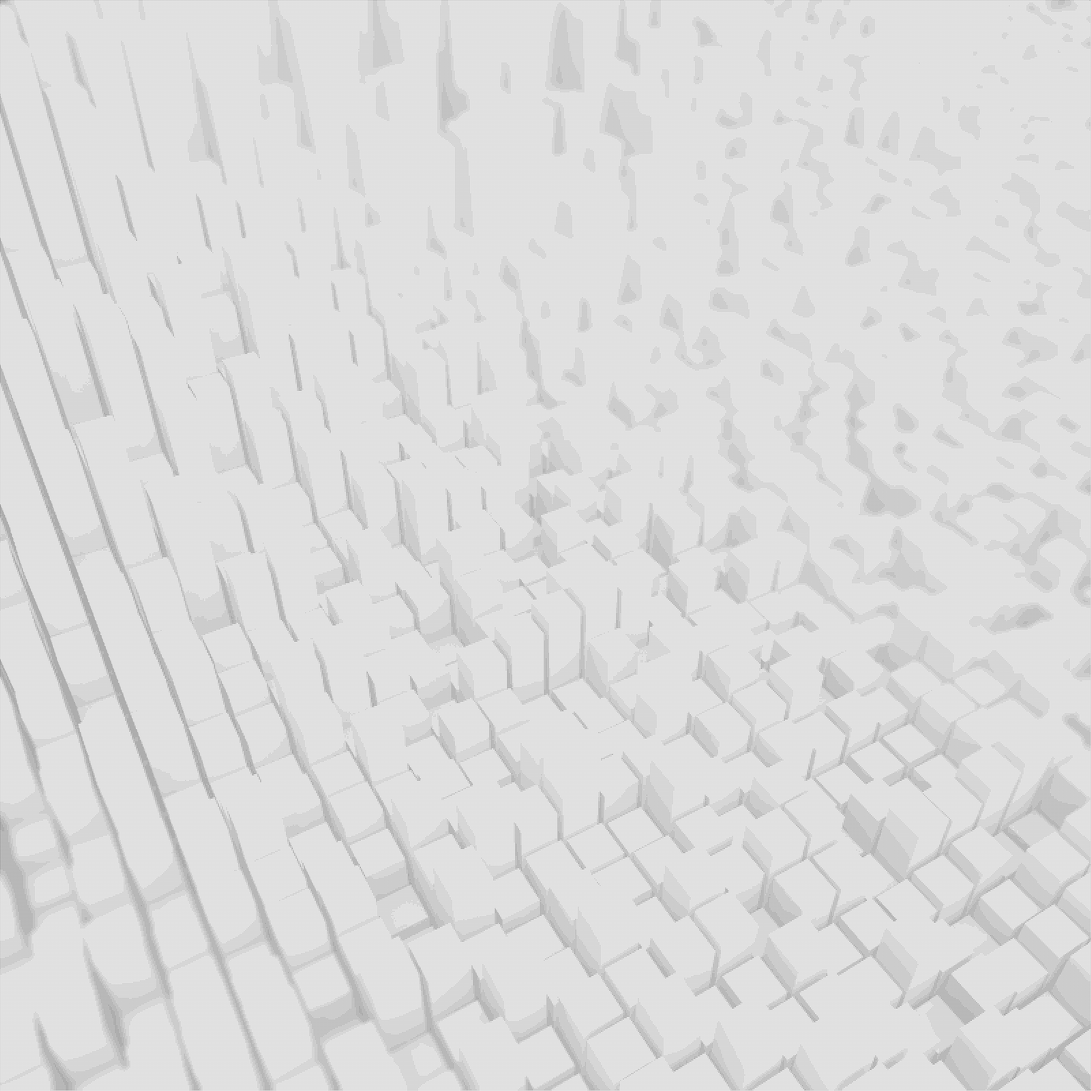
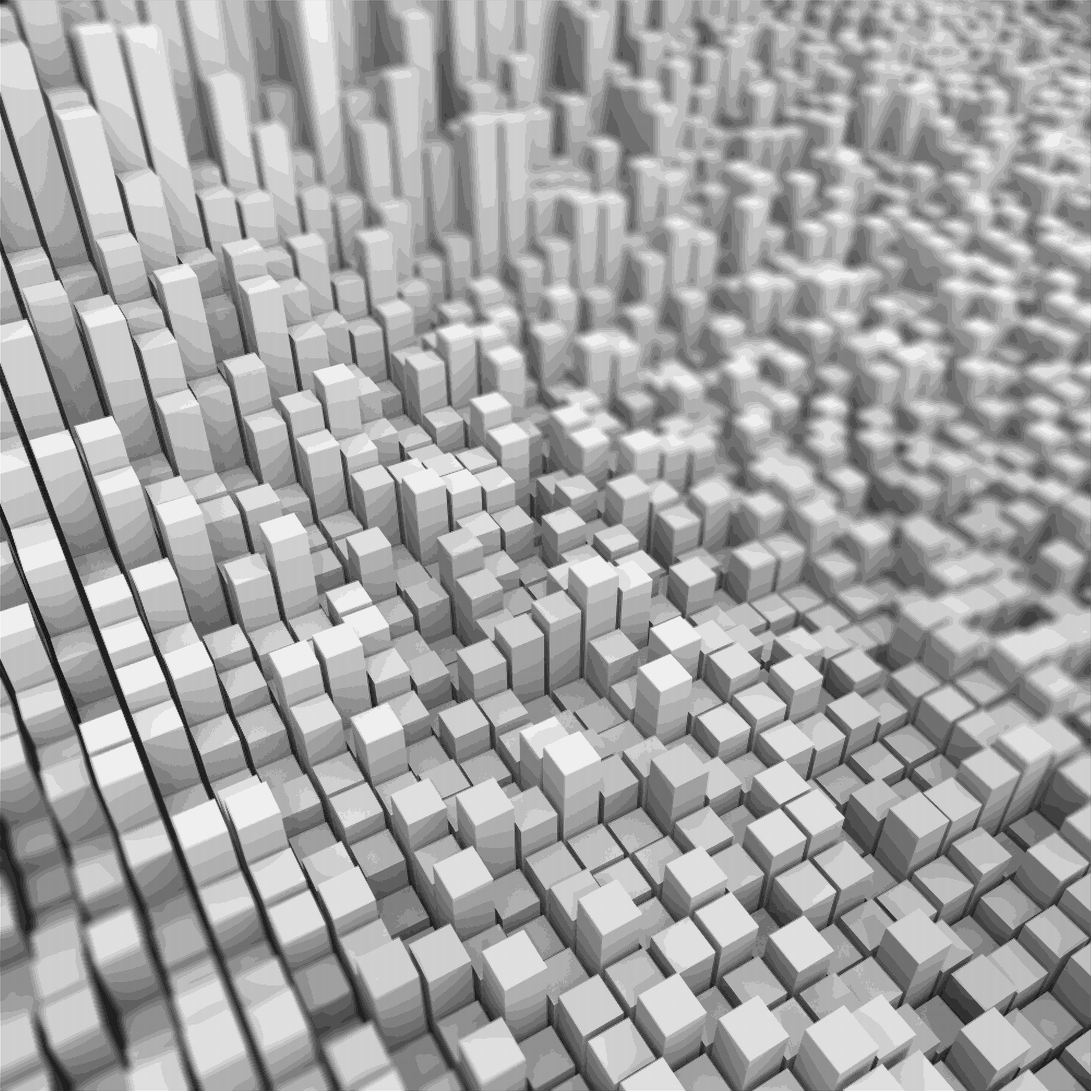
super réparation

diff --git a/src/Trame.java b/src/Trame.java
@@ -31,12 +31,25 @@ public class Trame {
 
 		int w = 0xFFFFFF;
 		int b = 0;
-		for (int i = 0; i < width * height; i++)
+		for (int i = 0; i < width * height; i++) {
 			for (int j = 0; j < width * height; j++) {
-				ret[i][j] = matrix[j] <= i ? w : b;
+				ret[i][j] = matrix[j] > i ? b : w;
 			}
+		}
 
 		return ret;
+	}
+
+	void printPattern() {
+		for(int i = 0; i < patterns.length; ++i) {
+			for(int j = 0; j < width * height; ++j) {
+				System.out.print(patterns[i][j] == 0 ? "b " : "w ");
+				if((j + 1) % width == 0) {
+					System.out.print("\n");
+				}
+			}
+			System.out.println("---------------------------------------------------\n");
+		}
 	}
 
 	BufferedImage traming(BufferedImage src) {
@@ -48,6 +61,8 @@ public class Trame {
 		int t_x = image.getWidth() / width;
 		int t_y = image.getHeight() / height;
 
+		//printPattern();
+
 		for (int i = 0; i < t_x; i++)
 			for (int j = 0; j < t_y; j++) {
 				int tot = 0;
@@ -55,8 +70,7 @@ public class Trame {
 					for (int y = 0; y < height; y++) {
 						tot += image.getRGB(width * i + x, height * j + y) & 0xFF;
 					}
-				image.setRGB(width * i, height * j, width, height, patterns[tot / (height * width * width * height)], 0,
-						width);
+				image.setRGB(width * i, height * j, width, height, patterns[tot / (height * width * width * height)], 0, width);
 			}
 
 		return image;
@@ -65,10 +79,10 @@ public class Trame {
 	public static int[] gen_matrix(int centre) {
 		// centre correspond à l'indice du centre
 		int m[] = {
-				15, 4, 8, 12,
-				11, 0, 1, 5,
-				7, 2, 3, 9,
-				14, 10, 6, 13
+			15, 4, 8, 12,
+			11, 0, 1, 5,
+			7, 2, 3, 9,
+			14, 10, 6, 13
 		};
 		int res[] = new int[16];
 		int decalage = (centre - 5 + 16) % 16;
@@ -96,31 +110,26 @@ public class Trame {
 		}
 	}
 
-	public static int size2(int[][] t) {
-		int res = 0;
-		for (int i = 0; i < t.length; i++) {
-			res += t[i].length;
-		}
-		return res;
-	}
+	public static int[] flatten(int[][] array2D) {
+        int totalLength = 0;
+        for (int[] row : array2D) {
+            totalLength += row.length;
+        }
 
-	public static int[] flatten(int[][] m) {
-		int res[] = new int[size2(m)];
+        int[] flattenedArray = new int[totalLength];
+        int index = 0;
+        for (int[] row : array2D) {
+            for (int num : row) {
+                flattenedArray[index++] = num;
+            }
+        }
 
-		for (int i = 0; i < m.length; i++) {
-			for (int j = 0; j < m[i].length; j++) {
-				res[i + j] = m[i][j];
-				//System.out.print(m[i][j] + "	");
-			}
-			//System.out.println("");
-		}
-		
-
-		return res;
-	}
+        return flattenedArray;
+    }
 
 	public static int[] gen_centered_matrix(int size, int center_x, int center_y, boolean black) {
-		// black c'est true si on centre noir et blanc sinon
+		// true si centré blanc 
+		// false si centré noir
 		assert size > 0;
 		assert center_x >= 0;
 		assert center_x < size;
@@ -190,9 +199,9 @@ public class Trame {
 	}
 
 	public static void main(String[] args) {
-		int m[] = gen_centered_matrix(5, 3, 2, false);
+		int m[] = gen_centered_matrix(4, 1, 1, true);
 
-		Trame t = new Trame(5, 5, m);
+		Trame t = new Trame(4, 4, m);
 		for (int i = 1; i < 7; i++) {
 			String path = "images/image" + i + ".png";
 			File input_file = new File(path);
